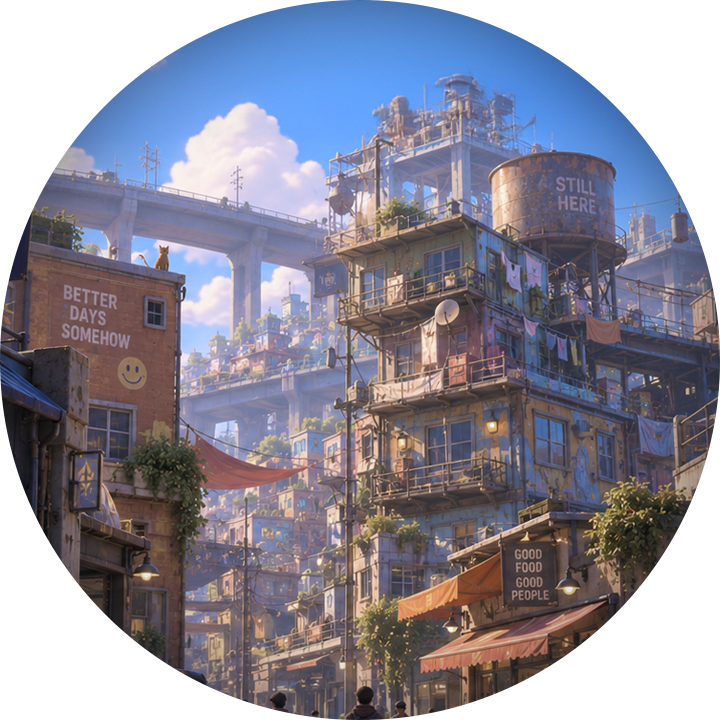
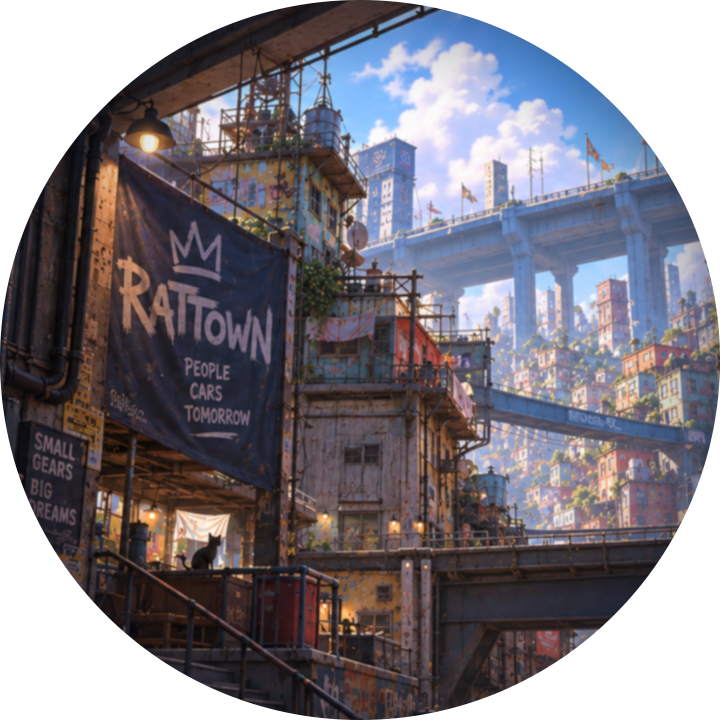
update11

diff --git a/shoma_pixar.html b/shoma_pixar.html
@@ -161,6 +161,7 @@ a { text-decoration: none; color: inherit; }
 #scenes {
   background: var(--white);
   padding: 0 0 240px;
+  margin-top: 0;
 }
 .scenes-label {
   text-align: center; padding: 0 24px 48px;
@@ -610,7 +611,7 @@ footer p {
 .world-list {
   max-width: 1200px; margin: 0 auto;
   padding: 220px 80px 260px;
-  display: flex; flex-direction: column; gap: 140px;
+  display: flex; flex-direction: column; gap: 160px;
 }
 .world-item {
   display: grid;
@@ -1270,14 +1271,165 @@ section[id].section-visible {
   transform: none;
 }
 
+
+/* ══════════════════════════════════════
+   FILMS & WORKS
+══════════════════════════════════════ */
+#films {
+  background: var(--white);
+  padding: 160px 80px 80px;
+}
+.films-inner {
+  max-width: 1100px;
+  margin: 0 auto;
+}
+.films-inner .films-title {
+  display: block; text-align: left;
+  font-family: var(--display); font-weight: 900;
+  font-size: clamp(28px, 4vw, 44px);
+  letter-spacing: 0; text-transform: none;
+  color: var(--ink); line-height: 1;
+  margin-bottom: 40px;
+}
+.films-grid {
+  display: grid;
+  grid-template-columns: 1fr 1fr;
+  gap: 32px;
+}
+.film-card {
+  position: relative;
+  cursor: pointer;
+  background: transparent;
+  transition: opacity 0.2s;
+}
+.film-card:hover { opacity: 0.88; }
+.film-thumb {
+  aspect-ratio: 16/9;
+  background-size: cover;
+  background-position: center;
+  background-color: #C0C8D0;
+  position: relative;
+  border-radius: 4px;
+  overflow: hidden;
+}
+/* 플레이 버튼 — 픽사 스타일: 우하단 작은 원형 */
+.film-play-btn {
+  position: absolute;
+  bottom: 14px; right: 14px;
+  display: flex; align-items: center; justify-content: center;
+  background: none;
+  transition: transform 0.2s;
+}
+.film-card:hover .film-play-btn { transform: scale(1.08); }
+.film-play-icon {
+  width: 44px; height: 44px;
+  border-radius: 50%;
+  background: rgba(255,255,255,0.88);
+  display: flex; align-items: center; justify-content: center;
+  box-shadow: 0 2px 12px rgba(0,0,0,0.25);
+}
+.film-play-icon svg { margin-left: 3px; }
+.film-play-icon svg path { fill: var(--navy); }
+
+/* 영상 없는 카드 */
+.film-card.no-video { cursor: default; }
+.film-card.no-video:hover { opacity: 1; }
+.film-card.no-video .film-play-icon { opacity: 0.35; }
+.film-coming-soon {
+  position: absolute; top: 12px; right: 12px;
+  font-family: var(--display); font-size: 10px;
+  font-weight: 300; letter-spacing: 3px; text-transform: uppercase;
+  color: rgba(255,255,255,0.7);
+  background: rgba(0,0,0,0.45); backdrop-filter: blur(8px);
+  padding: 4px 10px; border-radius: 2px;
+}
+
+/* 카드 정보 — 픽사 스타일: 썸네일 아래 흰 배경 */
+.film-info {
+  padding: 14px 4px 0;
+  background: transparent;
+}
+.film-type {
+  font-family: var(--display); font-size: 10px;
+  font-weight: 300; letter-spacing: 2px; text-transform: uppercase;
+  color: var(--ink-mid, #5A5A5A); display: block; margin-bottom: 4px;
+}
+.film-title {
+  font-family: var(--display); font-weight: 400;
+  font-size: clamp(15px, 1.5vw, 18px);
+  color: var(--ink); line-height: 1.3; margin-bottom: 4px;
+}
+.film-meta {
+  font-family: var(--display); font-size: 11px;
+  font-weight: 300; letter-spacing: 0.5px;
+  color: var(--ink-light, #9A9A9A);
+}
+
+/* ── YouTube Modal ── */
+.yt-modal {
+  display: none;
+  position: fixed; inset: 0;
+  z-index: 9100;
+  background: rgba(0,0,0,0);
+  align-items: center; justify-content: center;
+  transition: background 0.3s ease;
+}
+.yt-modal.open {
+  display: flex;
+  background: rgba(0,0,0,0.88);
+}
+.yt-modal-inner {
+  position: relative;
+  width: min(90vw, 1000px);
+  opacity: 0;
+  transform: scale(0.94);
+  transition: opacity 0.3s ease, transform 0.3s cubic-bezier(0.22,1,0.36,1);
+}
+.yt-modal.open .yt-modal-inner {
+  opacity: 1;
+  transform: scale(1);
+}
+.yt-iframe-wrap {
+  position: relative;
+  width: 100%; padding-bottom: 56.25%;
+  background: #000;
+  border-radius: 6px;
+  overflow: hidden;
+}
+.yt-iframe-wrap iframe {
+  position: absolute; inset: 0;
+  width: 100%; height: 100%;
+  border: none;
+}
+.yt-close {
+  position: absolute;
+  top: -44px; right: 0;
+  background: none; border: none;
+  cursor: pointer;
+  font-family: var(--display); font-size: 28px;
+  font-weight: 200; color: rgba(255,255,255,0.6);
+  line-height: 1; padding: 4px 8px;
+  transition: color 0.2s;
+}
+.yt-close:hover { color: #fff; }
+
+@media (max-width: 768px) {
+  #films { padding: 100px 20px 120px; }
+  .films-grid { grid-template-columns: 1fr; gap: 24px; }
+  .film-play-icon { width: 52px; height: 52px; }
+  .yt-modal-inner { width: 95vw; }
+  .yt-close { top: -40px; }
+}
+
 </style>
 </head>
 <body>
 
 <!-- NAV -->
 <nav id="nav">
-  <a class="nav-logo" href="#" onclick="event.preventDefault(); window.scrollTo(0,0); location.reload();">PROJECT:SHOMA</a>
+  <a class="nav-logo" href="#" onclick="event.preventDefault(); window.location.href = window.location.pathname;">PROJECT:SHOMA</a>
   <ul class="nav-links">
+    <li><a href="#films">Films</a></li>
     <li><a href="#scenes">Scenes</a></li>
     <li><a href="#characters">Characters</a></li>
     <li><a href="#world">World</a></li>
@@ -1300,6 +1452,7 @@ section[id].section-visible {
 <div id="mobileMenu" class="mobile-menu">
   <button class="mobile-menu-close" onclick="toggleMobileMenu()">×</button>
   <nav class="mobile-menu-nav">
+    <a href="#films"      onclick="toggleMobileMenu()">Films</a>
     <a href="#scenes"     onclick="toggleMobileMenu()">Scenes</a>
     <a href="#characters" onclick="toggleMobileMenu()">Characters</a>
     <a href="#world"      onclick="toggleMobileMenu()">World</a>
@@ -1344,12 +1497,65 @@ section[id].section-visible {
   </div>
 </section>
 
+<!-- FILMS & WORKS -->
+<section id="films">
+  <div class="films-inner">
+    <h2 class="films-title reveal">Films & Works</h2>
+
+    <div class="films-grid">
+
+      <!-- 1. PROJECT: SHOMA -->
+      <div class="film-card reveal" data-ytid="cXehxsA6Jmw" onclick="openYtModal(this)">
+        <div class="film-thumb" style="background-image:url('https://img.youtube.com/vi/cXehxsA6Jmw/hqdefault.jpg'); background-size:cover; background-position:center;">
+          <div class="film-play-btn">
+            <div class="film-play-icon">
+              <svg width="20" height="20" viewBox="0 0 20 20" fill="none">
+                <path d="M6 4L16 10L6 16V4Z" fill="white"/>
+              </svg>
+            </div>
+          </div>
+        </div>
+        <div class="film-info">
+          <span class="film-type">Short Animation</span>
+          <p class="film-title">PROJECT: SHOMA</p>
+          <span class="film-meta">4:11</span>
+        </div>
+      </div>
+
+      <!-- 2. 3D ANAMORPHIC MEDIA ART (영상 없음 → 나중에 data-ytid 추가) -->
+      <div class="film-card no-video reveal" data-ytid="" onclick="openYtModal(this)">
+        <div class="film-thumb" style="background-image:url('images/anamorphic_thumb.png');">
+          <div class="film-play-btn">
+            <div class="film-play-icon">
+              <svg width="20" height="20" viewBox="0 0 20 20" fill="none">
+                <path d="M6 4L16 10L6 16V4Z" fill="white"/>
+              </svg>
+            </div>
+          </div>
+          <span class="film-coming-soon">Video Coming Soon</span>
+        </div>
+        <div class="film-info">
+          <span class="film-type">3D Anamorphic Video</span>
+          <p class="film-title">3D Anamorphic<br>Media Art</p>
+          <span class="film-meta">0:53 · Exhibited at Seoullo Media Canvas, Seoul</span>
+        </div>
+      </div>
+
+    </div>
+  </div>
+</section>
+
+<!-- YouTube Modal -->
+<div id="ytModal" class="yt-modal" onclick="closeYtModal(event)">
+  <div class="yt-modal-inner">
+    <button class="yt-close" onclick="closeYtModal(null, true)">×</button>
+    <div class="yt-iframe-wrap" id="ytIframeWrap"></div>
+  </div>
+</div>
+
 <!-- SCENES -->
 <section id="scenes">
-  <div class="scenes-label reveal">
-    <span class="section-eyebrow">The Story in Frames</span>
-    <h2 class="section-title">Moments</h2>
-  </div>
+
   <div class="scenes-main" id="scenesMain" style="background-image:url('images/모멘트페이지2.png');"></div>
     <!-- 교체: style="background-image:url('images/scene1.png');" -->
   </div>
@@ -1474,7 +1680,7 @@ section[id].section-visible {
           <div class="world-item-thumb" id="glorybayT1" style="background-image:url('images/모멘트페이지1.png');"></div>
           <div class="world-item-thumb" id="glorybayT1" style="background-image:url('images/글로리베이미니이미지2.png');"></div>
           <div class="world-item-thumb" id="glorybayT1" style="background-image:url('images/글로리베이미니이미지.jpg');"></div>
-          <div class="world-item-thumb" id="glorybayT4"></div>
+          <div class="world-item-thumb" id="glorybayT1" style="background-image:url('images/글로리베이미니이미지3.png');"></div>
         </div>
       </div>
     </div>
@@ -1486,10 +1692,10 @@ section[id].section-visible {
         <p class="world-item-desc i18n" data-ko="개발이 늦고 기회가 부족한 낙후된 주거지역.<br>쇼마가 살아가는 곳이자, STRAY의 이야기가 시작되는 곳이다." data-en="A neglected, underdeveloped neighborhood with few opportunities.<br>The place Shoma calls home — and where the story of STRAY begins.">개발이 늦고 기회가 부족한 낙후된 주거지역.<br>쇼마가 살아가는 곳이자, STRAY의 이야기가 시작되는 곳이다.</p>
       
         <div class="world-item-thumbs">
-          <div class="world-item-thumb" id="rattownT1"></div>
-          <div class="world-item-thumb" id="rattownT2"></div>
-          <div class="world-item-thumb" id="rattownT3"></div>
-          <div class="world-item-thumb" id="rattownT4"></div>
+          <div class="world-item-thumb" id="glorybayT1" style="background-image:url('images/랫타운미니이미지2.png');"></div>
+          <div class="world-item-thumb" id="glorybayT1" style="background-image:url('images/랫타운미니이미지3.png');"></div>
+          <div class="world-item-thumb" id="glorybayT1" style="background-image:url('images/랫타운미니이미지.png');"></div>
+          <div class="world-item-thumb" id="glorybayT1" style="background-image:url('images/랫타운미니이미지4.png');"></div>
         </div>
       </div>
     </div>
@@ -1503,30 +1709,14 @@ section[id].section-visible {
         <div class="world-item-thumbs">
           <div class="world-item-thumb" id="glorybayT1" style="background-image:url('images/스트라토스컵미니이미지.png');"></div>
           <div class="world-item-thumb" id="glorybayT1" style="background-image:url('images/스트라토스컵미니이미지2.png');"></div>
-          <div class="world-item-thumb" id="glorybayT1" style="background-image:url('images/흠.png');"></div>
-          <div class="world-item-thumb" id="stratosT4"></div>
+          <div class="world-item-thumb" id="glorybayT1" style="background-image:url('images/스트라토스컵미니이미지4.png');"></div>
+          <div class="world-item-thumb" id="glorybayT1" style="background-image:url('images/스트라토스컵미니이미지3.png');"></div>
         </div>
       </div>
     </div>
 
-    <div class="world-item reveal">
-      <div class="world-item-portrait" id="wpGlorybay" style="background-image: url('images/레드몬트고교프로필.png');"></div>
-      <div class="world-item-info">
-        <h3 class="world-item-name">Redmont High School</h3>
-        <p class="world-item-desc i18n" data-ko="랫타운과 인근 지역에 위치한 쇼마의 고등학교. 학생과 교사 모두가 꿈도 희망도 없이 삶을 연명만 하는 곳. 이런 무기력한 모습에 질린 쇼마는 학교생활 속에서도 연구를 멈추지 않고 자신의 기술을 발전시켜 나간다." data-en="Shoma's high school in the Rattown area. A place where students and teachers alike have given up on dreams. Tired of the hopelessness, Shoma never stops his research — even in class.">랫타운과 인근 지역에 위치한 쇼마의 고등학교. 학생과 교사 모두가 꿈도 희망도 없이 삶을 연명만 하는 곳. 이런 무기력한 모습에 질린 쇼마는 학교생활 속에서도 연구를 멈추지 않고 자신의 기술을 발전시켜 나간다.</p>
-      
-        <div class="world-item-thumbs">
-          <div class="world-item-thumb" id="redmontT1"></div>
-          <div class="world-item-thumb" id="redmontT2"></div>
-          <div class="world-item-thumb" id="redmontT3"></div>
-          <div class="world-item-thumb" id="redmontT4"></div>
-        </div>
-      </div>
-    </div>
-
-    <div class="world-item reveal">
-      <div class="world-item-portrait" id="wpGlorybay" style="background-image: url('images/크레스턴대학프로필.png');"></div>
-      <div class="world-item-info">
+    <div class="world-item reveal" style="grid-template-columns: 1fr 360px;">
+      <div class="world-item-info" style="order:1;">
         <h3 class="world-item-name">Creston University</h3>
         <p class="world-item-desc i18n" data-ko="글로리베이에 위치한 명문 공과대학. 첨단 공학과 기술 연구로 이름난 곳이지만, 학생들에게 정해진 길만을 요구하지 않는다. 자신의 아이디어를 직접 만들고 실패할 수 있는 자유로운 연구 문화가 이곳의 특징이다." data-en="A prestigious engineering university in Glory Bay. Known for advanced research and technology, but it doesn't demand students follow a fixed path. The freedom to build your own ideas — and to fail — defines its culture.">글로리베이에 위치한 명문 공과대학. 첨단 공학과 기술 연구로 이름난 곳이지만, 학생들에게 정해진 길만을 요구하지 않는다. 자신의 아이디어를 직접 만들고 실패할 수 있는 자유로운 연구 문화가 이곳의 특징이다.</p>
       
@@ -1537,6 +1727,7 @@ section[id].section-visible {
           <div class="world-item-thumb" id="crestonT4"></div>
         </div>
       </div>
+      <div class="world-item-portrait" id="wpCreston" style="background-image: url('images/크레스턴대학프로필.png'); order:2;"></div>
     </div>
         
         
@@ -1718,7 +1909,7 @@ section[id].section-visible {
 
     <!-- ── GROUP 5: 와이드 + 마무리 ── -->
     <div class="g-item g-item--wide">
-      <div class="g-img" id="g15" style="background-image:url('images/gallery15.png');"></div>
+      <div class="g-img" id="g15" style="background-image:url('images/galleryzz.png');"></div>
       <div class="g-hover"><span class="g-num">15</span></div>
     </div>
     <div class="g-item">
@@ -1958,6 +2149,40 @@ document.getElementById('mobileMenu')?.addEventListener('click', function(e) {
   });
   document.querySelectorAll('.team-fade').forEach(el => teamObs.observe(el));
 })();
+
+
+/* ── YOUTUBE MODAL ── */
+function openYtModal(card) {
+  const ytid = card.dataset.ytid;
+  if (!ytid) return; // 영상 없는 카드는 무시
+  const modal = document.getElementById('ytModal');
+  const wrap  = document.getElementById('ytIframeWrap');
+  // iframe 생성
+  wrap.innerHTML = `<iframe
+    src="https://www.youtube.com/embed/${ytid}?autoplay=1&rel=0"
+    allow="accelerometer; autoplay; clipboard-write; encrypted-media; gyroscope; picture-in-picture"
+    allowfullscreen></iframe>`;
+  modal.style.display = 'flex';
+  document.body.style.overflow = 'hidden';
+  // transition을 위해 한 프레임 뒤에 클래스 추가
+  requestAnimationFrame(() => requestAnimationFrame(() => modal.classList.add('open')));
+}
+
+function closeYtModal(e, force) {
+  if (!force && e && e.target !== document.getElementById('ytModal')) return;
+  const modal = document.getElementById('ytModal');
+  const wrap  = document.getElementById('ytIframeWrap');
+  modal.classList.remove('open');
+  setTimeout(() => {
+    modal.style.display = 'none';
+    wrap.innerHTML = ''; // 영상 재생 중지
+    document.body.style.overflow = '';
+  }, 300);
+}
+
+document.addEventListener('keydown', e => {
+  if (e.key === 'Escape') closeYtModal(null, true);
+});
 
 </script>
 </body>
